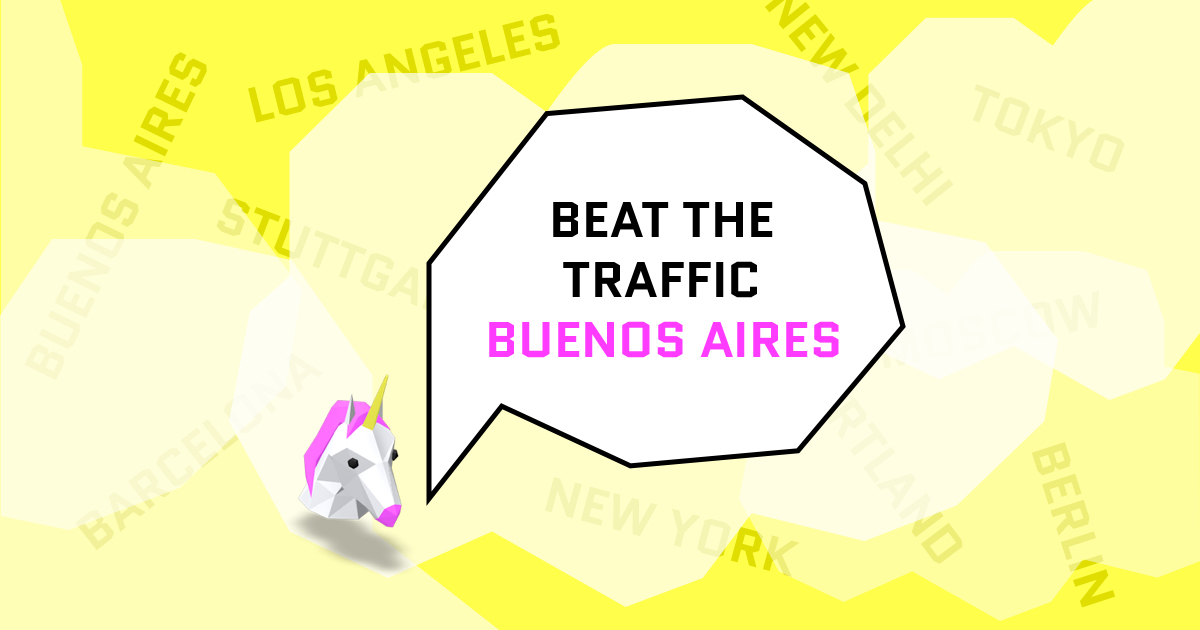
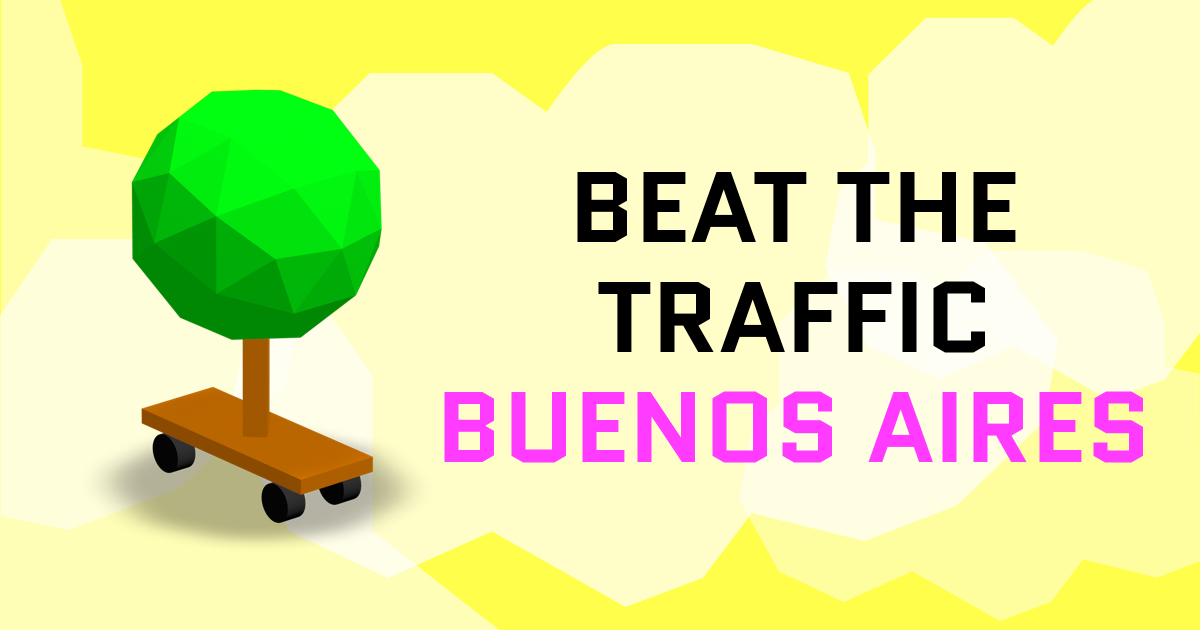
Last touch: landing + menu

diff --git a/components/game/ui/Landing.js b/components/game/ui/Landing.js
@@ -86,7 +86,7 @@ class Landing extends Component {
             <RightCloud />
             <div className='about'>
               <h4>
-                <a href='https://www.google.de/' target='_blank'>
+                <a href='https://opendatacam.moovellab.com/' target='_blank'>
                   OPEN DATA CAM
                 </a>
               </h4>
@@ -117,11 +117,12 @@ class Landing extends Component {
             display: flex;
             flex-direction: column;
             align-items: center;
-            margin-top: -50px;
+            margin-top: -70px;
+            z-index: 1000;
           }
 
           .landing-headline {
-            width: 80%;
+            width: 100%;
             animation: fadeInHeadline 1.3s;
             color: #262626;
             text-align: center;
@@ -199,9 +200,14 @@ class Landing extends Component {
             }
           }
 
+          @media (max-width: 560px) {
+            .landing-headline {
+              width: 90%;
+            }
+          }
           @media (max-height: 560px) {
             .landing-content {
-              margin-top: -100px;
+              margin-top: -110px;
             }
           }
 
@@ -217,7 +223,7 @@ class Landing extends Component {
 
           @media (max-height: 460px) {
             .landing-content {
-              margin-top: -140px;
+              margin-top: -110px;
             }
 
             .landing-headline {

diff --git a/components/shared/ChangeCityButtonLanding.js b/components/shared/ChangeCityButtonLanding.js
@@ -111,13 +111,16 @@ class ChangeCityButtonLanding extends Component {
           }
 
           .unicorn {
-            width: 5.5rem;
+            width: 5rem;
+            bottom: 3.2rem;
+            left: 2.6rem;
+            position: fixed;
           }
 
           .bubble-hint {
             position: absolute;
-            bottom: 2rem;
-            left: 5.5rem;
+            bottom: 1.5rem;
+            left: 5.1rem;
             cursor: pointer;
 
             margin: 0 auto;
@@ -133,8 +136,8 @@ class ChangeCityButtonLanding extends Component {
             padding-right: 1.5rem;
             padding-left: 1.5rem;
             font-size: 2rem;
-            min-height: 6.5rem;
-            min-width: 15.5rem; // To fit LOS ANGELES LONGEST TEXT
+            min-height: 8.5rem;
+            min-width: 17.5rem; // To fit LOS ANGELES LONGEST TEXT
 
             display: flex;
             justify-content: center;
@@ -145,6 +148,8 @@ class ChangeCityButtonLanding extends Component {
           .bubble-text {
             font-family: 'Geo', sans-serif;
             font-weight: 400;
+            margin-left: 2rem;
+            margin-top: 0.2rem;
           }
 
           .bubble-city {

diff --git a/components/game/ui/menu/MenuBtn.js b/components/game/ui/menu/MenuBtn.js
@@ -24,7 +24,7 @@ class MenuBtn extends Component {
             <g
               id='Layout'
               transform='translate(-3332.000000, -2077.000000)'
-              stroke={`${this.props.introAnimPlayed ? '#FFFE4A' : '#000000'}`}
+              stroke={`${this.props.introAnimPlayed ? '#FFFE4A' : '#262626'}`}
               strokeWidth='4'
             >
               <path d='M3332,2079 L3362,2079' id='Path-15-Copy-2' />
@@ -63,7 +63,7 @@ class MenuBtn extends Component {
             transition: 0.1s;
           }
           .menu-button svg:hover g {
-            stroke: #ff3bff;
+            /*stroke: #ff3bff;*/
           }
 
           @keyframes fadeInHeadline {

diff --git a/components/game/ui/menu/Menu.js b/components/game/ui/menu/Menu.js
@@ -298,7 +298,7 @@ class Menu extends PureComponent {
           }
 
           .hiddencloud {
-            transform: translateX(50%);
+            transform: translateX(0%);
           }
 
           .visiblecloud {
